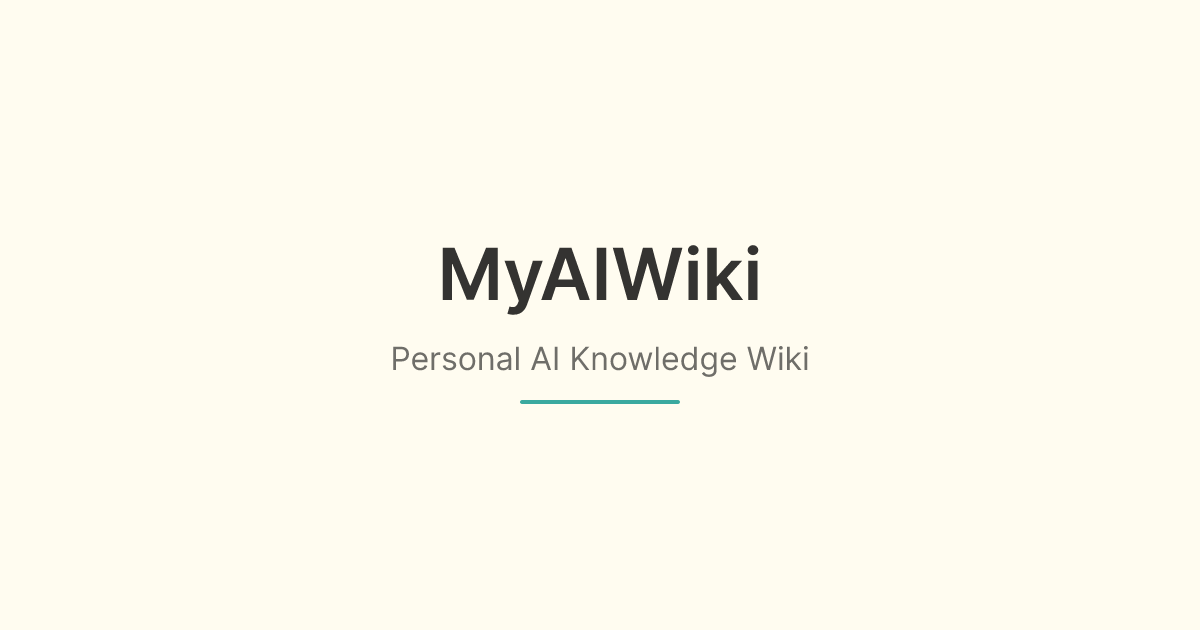
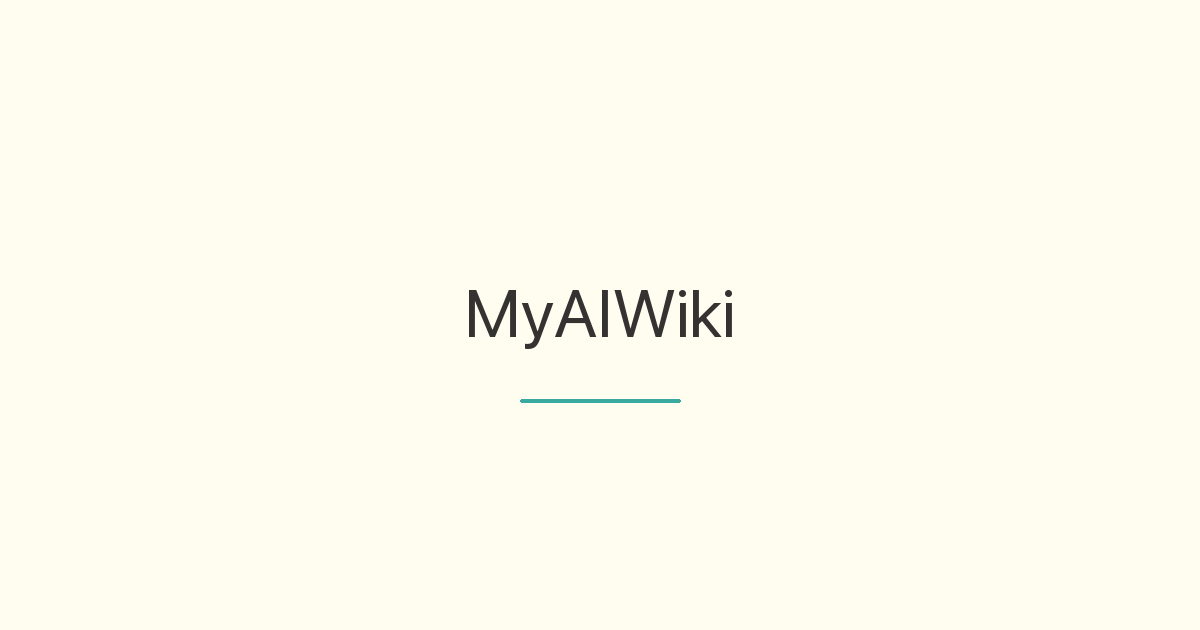
style: use Apple system font and polish note image loading
Switch site typography to -apple-system for native San Francisco on Apple
devices, remove Google Fonts, match OG cards to the same medium-weight look,
and add smooth fade-in placeholders for note images.

Changed region(s): [[0.3083, 0.3921, 0.6783, 0.6032], [0.4317, 0.6333, 0.555, 0.6635]]

diff --git a/assets/css/style.css b/assets/css/style.css
@@ -1,5 +1,3 @@
-@import url('https://fonts.googleapis.com/css2?family=Inter:wght@400;600&display=swap');
-
 :root {
   --bg: rgb(255, 252, 240);
   --bg2: rgb(242, 240, 229);
@@ -9,7 +7,7 @@
   --border: rgb(230, 228, 217);
   --color-tx-marker: rgb(183, 181, 172);
   
-  --font: "Inter", sans-serif;
+  --font: -apple-system, BlinkMacSystemFont, "Segoe UI", sans-serif;
   --weight-medium: 400;
   --weight-bold: 600;
   
@@ -1035,10 +1033,18 @@ img {
 .content picture {
   display: block;
   margin: var(--space-md) 0;
+  background: var(--bg2);
+  border-radius: 6px;
+  overflow: hidden;
 }
 
 .content picture img {
   margin: 0;
+}
+
+.content img {
+  background: var(--bg2);
+  border-radius: 6px;
 }
 
 .content img[width][height] {
@@ -1047,6 +1053,16 @@ img {
 
 .content img[loading="lazy"] {
   content-visibility: auto;
+}
+
+.content img:not(.is-loaded):not([loading="eager"]) {
+  opacity: 0;
+}
+
+.content img.is-loaded,
+.content img[loading="eager"] {
+  opacity: 1;
+  transition: opacity 0.2s ease;
 }
 
 p a[href^="http://"], p a[href^="https://"],

diff --git a/_layouts/Post.html b/_layouts/Post.html
@@ -11,10 +11,6 @@
     <meta content="width=device-width, initial-scale=1" name="viewport" />
     {%- include SocialMeta.html -%}
     <meta content="{{ site.url }}/about/" property="article:author">
-    <link rel="preconnect" href="https://fonts.googleapis.com">
-    <link rel="preconnect" href="https://fonts.gstatic.com" crossorigin>
-    <link href="https://fonts.googleapis.com/css2?family=Inter:wght@400;600&display=swap" rel="stylesheet">
-
     <title>{%- if page.title and page.title != site.heading -%}{{ page.title }} - {%- endif -%}{{ site.heading }}</title>
     <link rel="canonical" href="{{site.url}}{{page.url}}" />
     {%- if site.apple_touch_icon -%}

diff --git a/_includes/Content.html b/_includes/Content.html
@@ -7,6 +7,12 @@
 document.addEventListener('DOMContentLoaded', function() {
     const contentDiv = document.querySelector('.content');
     if (!contentDiv) return;
+
+    contentDiv.querySelectorAll('img').forEach(function(img) {
+        function markLoaded() { img.classList.add('is-loaded'); }
+        if (img.complete) markLoaded();
+        else img.addEventListener('load', markLoaded, { once: true });
+    });
     
     // Get all available notes for link resolution
     const availableNotes = [

diff --git a/scripts/generate_og_images.py b/scripts/generate_og_images.py
@@ -18,8 +18,8 @@ except ImportError as exc:
 ROOT = Path(__file__).resolve().parents[1]
 NOTES_DIR = ROOT / "_notes" / "Public"
 OUTPUT_DIR = ROOT / "assets" / "og"
-FONT_CACHE = ROOT / ".cache" / "og-fonts" / "Inter-SemiBold.ttf"
-FONT_URL = "https://cdn.jsdelivr.net/fontsource/fonts/inter@latest/latin-600-normal.ttf"
+FONT_CACHE = ROOT / ".cache" / "og-fonts" / "Inter-Medium.ttf"
+FONT_URL = "https://cdn.jsdelivr.net/fontsource/fonts/inter@latest/latin-500-normal.ttf"
 FALLBACK_PNG = ROOT / "assets" / "img" / "og-image.png"
 
 WIDTH = 1200
@@ -29,12 +29,13 @@ TITLE_COLOR = "#343331"
 BRAND = "#3AA99F"
 SITE_TITLE = "MyAIWiki"
 
+# San Francisco on macOS; Inter Medium on Linux/Netlify (closest open match)
 SYSTEM_FONTS = [
+    Path("/System/Library/Fonts/SFNS.ttf"),
+    Path("/System/Library/Fonts/SFCompact.ttf"),
     FONT_CACHE,
-    Path("/usr/share/fonts/truetype/dejavu/DejaVuSans-Bold.ttf"),
-    Path("/usr/share/fonts/truetype/liberation/LiberationSans-Bold.ttf"),
-    Path("/System/Library/Fonts/Supplemental/Arial Bold.ttf"),
-    Path("/Library/Fonts/Arial Bold.ttf"),
+    Path("/usr/share/fonts/truetype/dejavu/DejaVuSans.ttf"),
+    Path("/usr/share/fonts/truetype/liberation/LiberationSans-Regular.ttf"),
 ]
 
 
@@ -99,10 +100,10 @@ def wrap_title(title: str, max_chars: int = 28, max_lines: int = 3) -> list[str]
 def font_size(lines: list[str]) -> int:
     longest = max(len(line) for line in lines)
     if len(lines) > 2 or longest > 24:
-        return 48
+        return 52
     if longest > 18:
-        return 56
-    return 64
+        return 60
+    return 68
 
 
 def draw_card(title: str, output_path: Path) -> None:
@@ -113,7 +114,7 @@ def draw_card(title: str, output_path: Path) -> None:
     image = Image.new("RGB", (WIDTH, HEIGHT), BG)
     draw = ImageDraw.Draw(image)
 
-    line_height = int(size * 1.25)
+    line_height = int(size * 1.3)
     block_height = line_height * len(lines)
     start_y = (HEIGHT - block_height) // 2
 
@@ -124,8 +125,8 @@ def draw_card(title: str, output_path: Path) -> None:
         x = (WIDTH - text_width) // 2
         draw.text((x, y), line, fill=TITLE_COLOR, font=font)
 
-    accent_y = min(start_y + block_height + 36, HEIGHT - 120)
-    draw.rounded_rectangle((520, accent_y, 680, accent_y + 4), radius=2, fill=BRAND)
+    accent_y = min(start_y + block_height + 40, HEIGHT - 100)
+    draw.rounded_rectangle((520, accent_y, 680, accent_y + 3), radius=2, fill=BRAND)
 
     output_path.parent.mkdir(parents=True, exist_ok=True)
     image.save(output_path, format="PNG", optimize=True)
